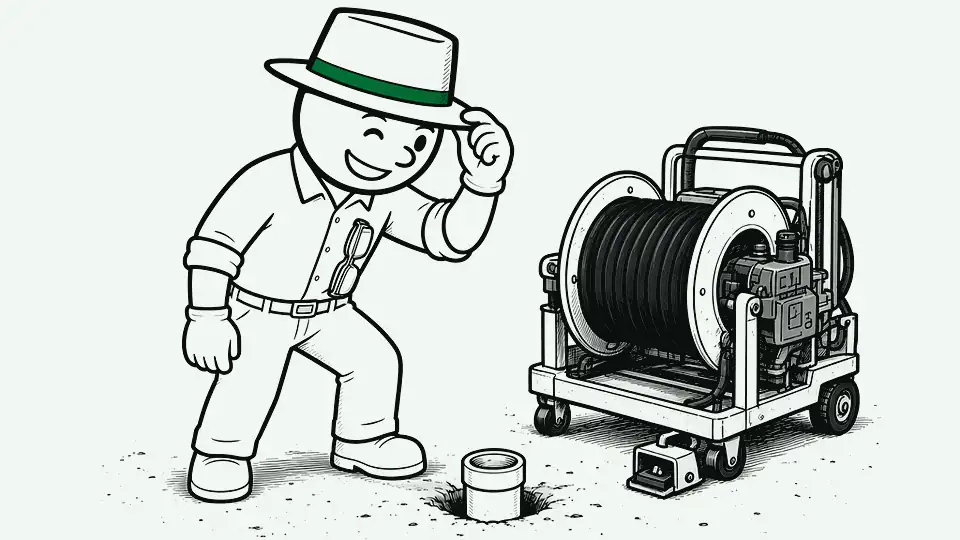
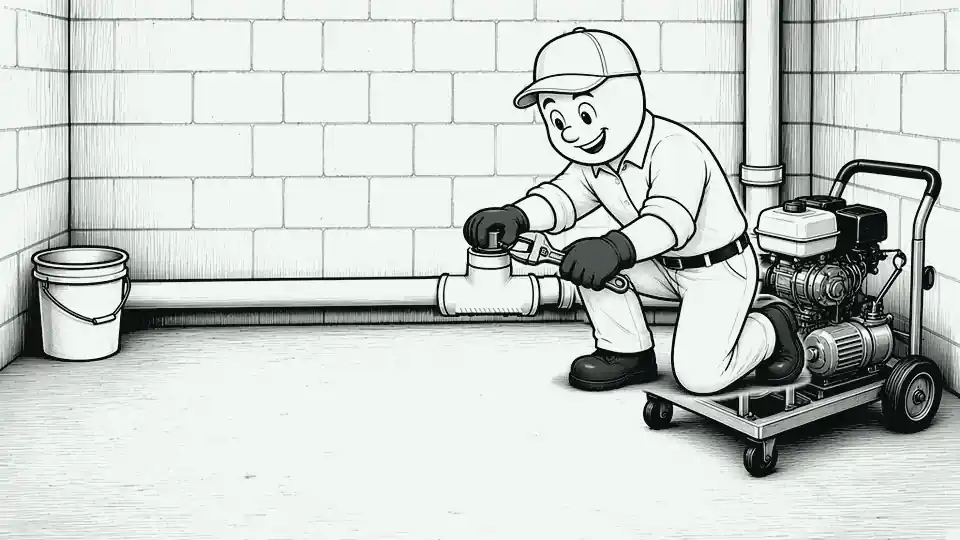
scenes: hydrojet redrawn in v7 hand-inked style (6 frames)

diff --git a/scenes/hydrojet.js b/scenes/hydrojet.js
@@ -1,1 +1,1 @@
-(window.EESceneData=window.EESceneData||{})["hydrojet"]={"kind":"kf","w":960,"h":540,"title":"Line hydro-jetted","alt":"The jetter hose goes into the outdoor cleanout, the pedal sends pressure, the nozzle scours on the pull-back, the line is checked on the monitor, and a hat tip.","frames":[{"src":"scenes/kf/hydrojet-1.webp?v=6","hold":560,"tw":{"x":-4}},{"src":"scenes/kf/hydrojet-2.webp?v=6","hold":560,"tw":{"y":-6},"o":[{"x":525,"y":169,"t":"effort","a":-40}]},{"src":"scenes/kf/hydrojet-3.webp?v=6","hold":560,"tw":{"x":5,"ms":240},"o":[{"x":488,"y":422,"t":"drips"}]},{"src":"scenes/kf/hydrojet-4.webp?v=6","hold":560,"tw":{"sy":0.99,"ms":200}},{"src":"scenes/kf/hydrojet-5.webp?v=6","hold":760,"tw":{"y":8,"r":-1,"ms":300},"o":[{"x":110,"y":100,"t":"check"}]}],"placeholder":false};
+(window.EESceneData=window.EESceneData||{})["hydrojet"]={"kind":"kf","w":960,"h":540,"title":"Line hydro-jetted","alt":"He loosens the cleanout plug with an adjustable wrench, feeds the jetter's high-pressure hose down into the cleanout, braces the hose while the jetter scours the line, pulls the hose back out hand over hand, snugs the plug back in with the wrench, and gives a thumbs-up.","frames":[{"src":"scenes/kf/hydrojet-1.webp?v=7.2","hold":500,"tw":{"x":-3},"o":[{"x":525,"y":43,"t":"word","text":"PLUG OFF","s":38}]},{"src":"scenes/kf/hydrojet-2.webp?v=7.2","hold":500,"tw":{"y":-4},"o":[{"x":525,"y":45,"t":"word","text":"HOSE IN","s":39}]},{"src":"scenes/kf/hydrojet-3.webp?v=7.2","hold":640,"tw":{"x":4,"ms":240},"o":[{"x":525,"y":51,"t":"word","text":"WHOOSH!","s":45}]},{"src":"scenes/kf/hydrojet-4.webp?v=7.2","hold":500,"tw":{"sy":0.99,"ms":200},"o":[{"x":38,"y":66,"t":"word","text":"HOSE OUT","s":38}]},{"src":"scenes/kf/hydrojet-5.webp?v=7.2","hold":480,"tw":{"y":-4},"o":[{"x":38,"y":66,"t":"word","text":"PLUG IN","s":39}]},{"src":"scenes/kf/hydrojet-6.webp?v=7.2","hold":1000,"tw":{"y":6,"r":-0.8,"ms":300},"o":[{"x":480,"y":80,"t":"check"}]}],"placeholder":false};
